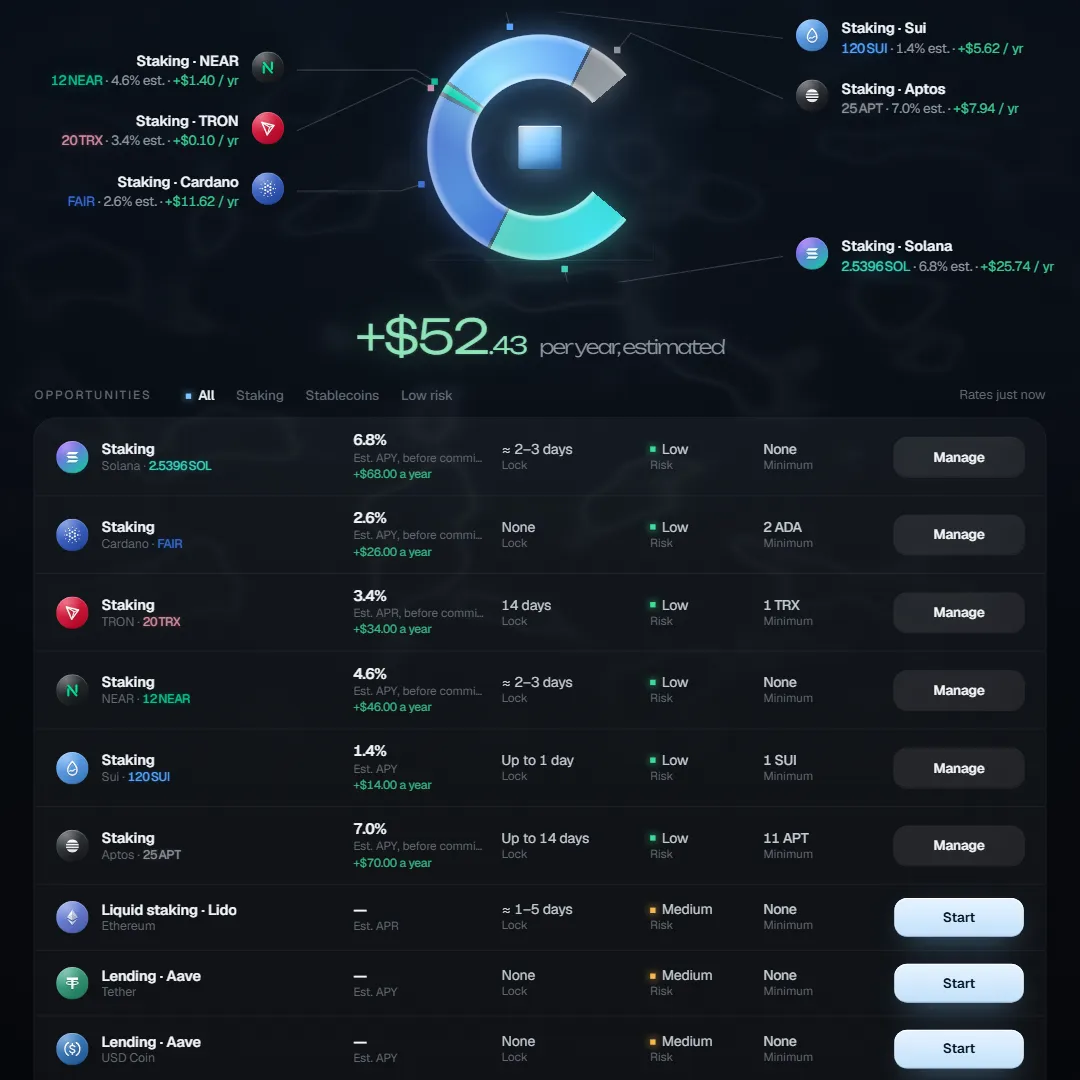
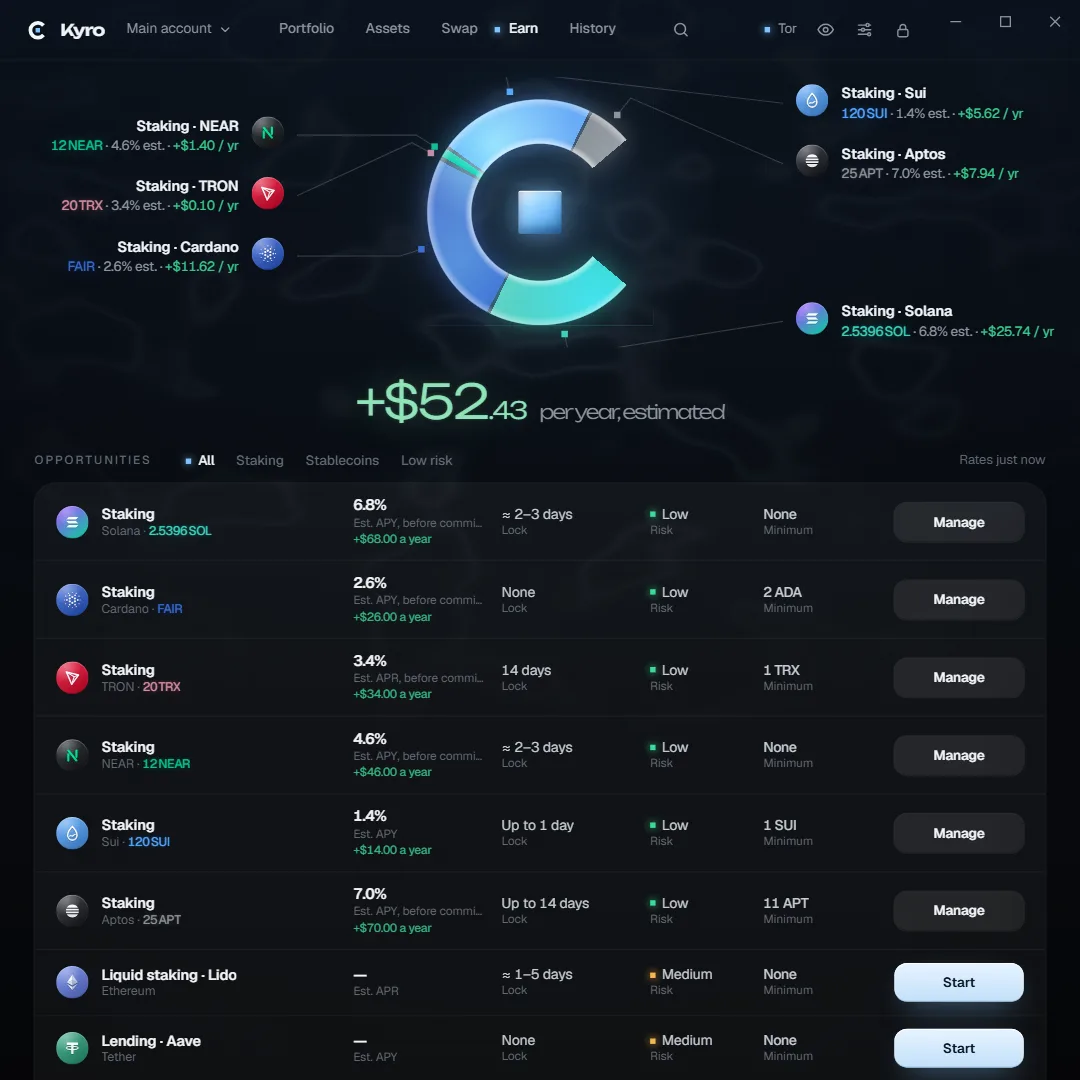
site: phone hero shows the whole app again, header to chart
Square captures of the app at 1000 px wide: the whole wallet with its chart, without the empty middle of the old portrait shots.

diff --git a/website/public/style.css b/website/public/style.css
@@ -211,7 +211,7 @@ main .wrap > p:last-child:has(> .more) { text-align: center; }
 .kw-screen.is-on { opacity: 1; visibility: visible; }
 .kw-in .kw-screen:has(picture) { padding: 0; }
 .kw-screen picture, .kw-screen picture img { display: block; width: 100%; height: 100%; object-fit: cover; object-position: top; }
-/* Phones: a square close-up of each screen (ring, figure, actions) instead of the whole window in miniature. */
+/* Phones: a square capture of the whole app (header to chart) at 1000 px wide, readable and without the empty middle. */
 @media (max-width: 640px) { .kw-shot .kw-in { aspect-ratio: 1 / 1; border-radius: 22px; } .kw-shot .kw-screen picture img { object-position: center; } }
 .js .kw-screen { visibility: visible; opacity: 0; transition: opacity .9s ease; }
 .js .kw-screen.is-on { opacity: 1; }
